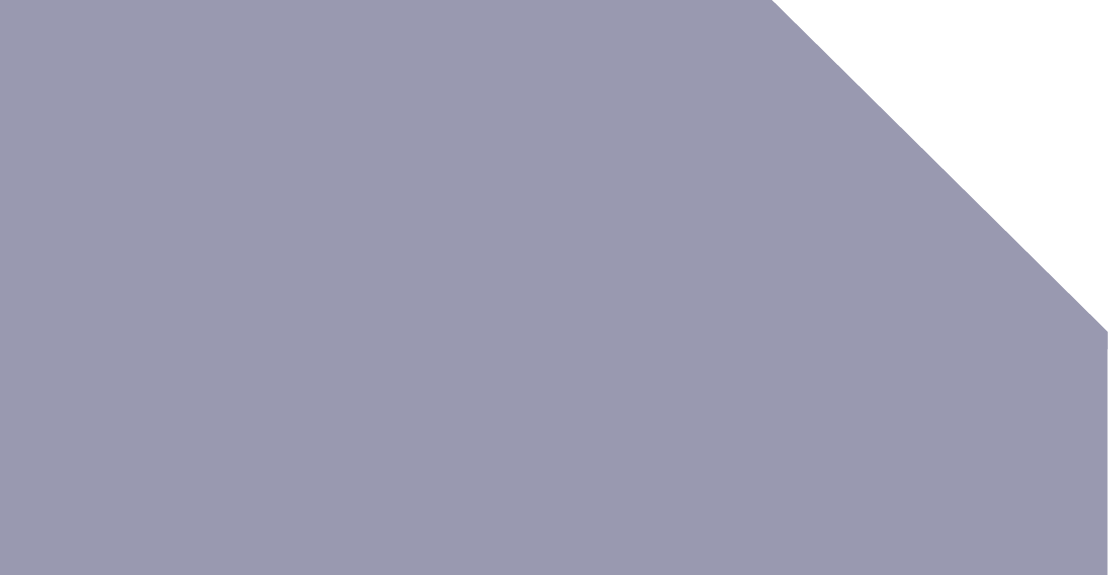
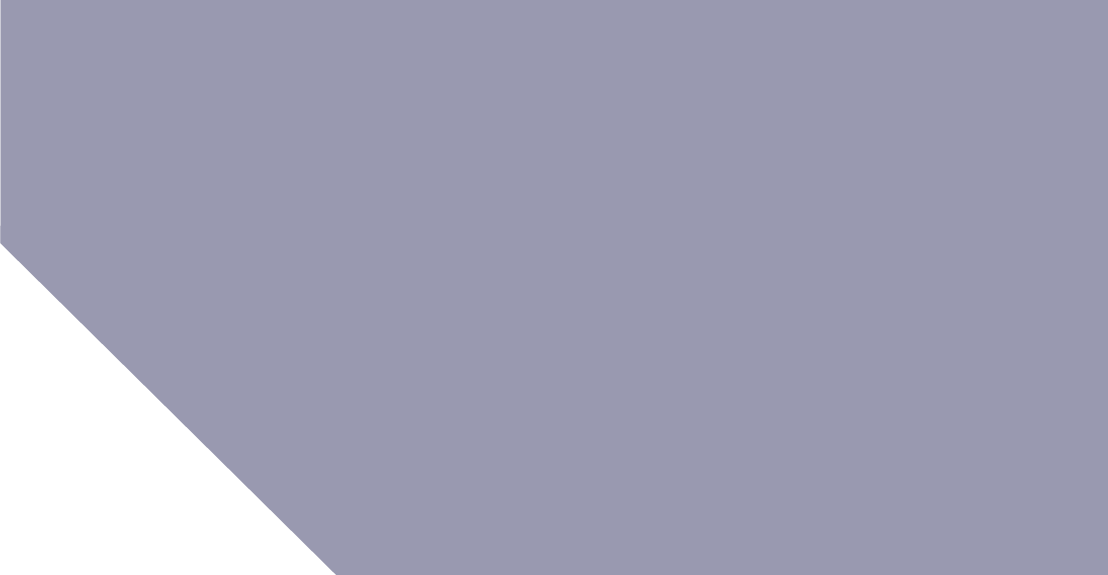
feature/sisk20/partnersTabAlmostDone

Changed region(s): [[0.7058, 0.0, 1.0, 0.5913], [0.0, 0.4139, 0.3069, 1.0]]

diff --git a/src/index.html b/src/index.html
@@ -113,6 +113,109 @@
 
 </section>
 
+<section id="partners" class="partners">
+  <div class="partners_container container">
+    <div class="row">
+      <div class="navy_bg col-12">
+      <p>
+        SKN Konsultingu IT zaufało już sześć organizacji i każda z nich planuje dalszą
+      </br>
+        współpracę z naszym kołem. Łącząc siły, tworzymy projekty wartościowe
+      </br>
+        zarówno dla studentów, jak i dla prestiżowych firm.
+      </br>
+      </br>
+        To dzięki Wam z każdym rokiem rośniemy.
+      </br>
+      </br>
+        Dziękujemy!
+      </p>
+      </div>
+    </div>
+  </div>
+  <div>
+    <div class="row d-flex justify-content-center">
+      <img class="img" src="assets/images/skn_partnerzy_dlonie_tlo1.png">
+    </div>
+  </div>
+  <div class="col-4">
+    <div class="row">
+      <div class="third">PARTNERZY</div>
+    </div>
+  </div>
+  <div class="white_bg d-flex justify-content-center">
+    <div class="row second">
+      <div class="col-2" rel="partner1">
+        <img src="assets/images/microsoft.png" width="200">
+      </div>
+      <div class="col-2" rel="partner2">
+        <img src="assets/images/PG.png" width="100" height="100">
+      </div>
+      <div class="col-2" rel="partner3">
+              <img src="assets/images/pwc.png" width="100" height="100">
+      </div>
+      <div class="col-2" rel="partner4">
+        <img src="assets/images/McKinsey.png" width="200" height="100">
+      </div>
+    <div class="col-4">
+      <div id="partner1">
+        <p>
+        "SKN Konsultingu IT zorganizowało dla Britnet
+        rekrtuację stażystów. W ramach współpracy Koło
+        przedstawiło kompleksowy plan a następnie
+        przeprowadziło akcję marketingową i
+        zaproponowało program oraz kryteria oceny
+        kandydatów. Całość została przeprowadzona szybko
+        i sprawnie. Dzięki pomocy i zaangażowaniu Koła w
+        cały proces rekrutacyjny udało nam się zatrudnić 3
+        stażystów, którzy pracują u nas do dzisiaj jako
+        analitycy i kierownicy    projektów."
+        </p>
+        </br>
+        <p>
+          Tomasz Kowalczyk
+        </br>
+        Dyrektor Project Management Office, Britnet
+        <p/>
+      </div>
+      <div id="partner2" style="display:none">
+        <p>
+        Lorem ipsum dolor sit amet, consectetur adipisicing elit, sed do eiusmod tempor incididunt ut labore et dolore magna aliqua. Ut enim ad minim veniam, quis nostrud exercitation ullamco laboris nisi ut aliquip ex ea commodo consequat. Duis aute irure dolor in reprehenderit in voluptate velit esse cillum dolore eu fugiat nulla pariatur. Excepteur sint occaecat cupidatat non proident, sunt in culpa qui officia deserunt mollit anim id est laborum.
+        </p>
+        </br>
+        <p>
+          Tomasz Kowalczyk
+        </br>
+        Dyrektor Project Management Office, Britnet
+        <p/>
+      </div>
+      <div id="partner3" style="display:none">
+        <p>
+        Lorem ipsum dolor sit amet, consectetur adipisicing elit, sed do eiusmod tempor incididunt ut labore et dolore magna aliqua. Ut enim ad minim veniam, quis nostrud exercitation ullamco laboris nisi ut aliquip ex ea commodo consequat. Duis aute irure dolor in reprehenderit in voluptate velit esse cillum dolore eu fugiat nulla pariatur. Excepteur sint occaecat cupidatat non proident, sunt in culpa qui officia deserunt mollit anim id est laborum.
+        </p>
+        </br>
+        <p>
+          Stefan Kowalski
+        </br>
+        Dyrektor Project Management Office, Britnet
+        <p/>
+      </div>
+      <div id="partner4" style="display:none">
+        <p>
+        Lorem ipsum dolor sit amet, consectetur adipisicing elit, sed do eiusmod tempor incididunt ut labore et dolore magna aliqua. Ut enim ad minim veniam, quis nostrud exercitation ullamco laboris nisi ut aliquip ex ea commodo consequat. Duis aute irure dolor in reprehenderit in
+        </p>
+        </br>
+        <p>
+          Tomasz Kowalczyk
+        </br>
+        Dyrektor Project Management Office, Britnet
+        <p/>
+      </div>
+    </div>
+  </div>
+</div>
+</section>
+
 
     <!-- CONTACT SECTION START -->
 

diff --git a/src/temp/css/style.css b/src/temp/css/style.css
@@ -701,3 +701,81 @@ table {
 .section__form .form__items-right .form-item input:focus {
   outline: none;
 }
+
+.partners {
+  font-family: "Roboto";
+  margin-bottom: 100px;
+  color: white;
+}
+
+.navy_bg {
+  border-left: 450px solid #000039;
+  border-top: 277px solid #000039;
+  border-right: 2100px solid transparent;
+  position: absolute;
+  left: 1px;
+  z-index: 1;
+}
+
+.navy_bg p {
+  left: -150px;
+  position: absolute;
+  top: -140px;
+  width: 600px;
+}
+
+.white_bg {
+  background-color: white;
+  height: 700px;
+}
+
+.second {
+  width: 80%;
+}
+
+.col-4 {
+  color: black;
+  top: 400px;
+}
+
+.col-2 {
+  color: black;
+  top: 470px;
+}
+
+.col-2:nth-of-type(1) {
+  left: 60px;
+}
+
+.col-2:nth-of-type(2) {
+  left: 80px;
+}
+
+.col-2:nth-of-type(3) {
+  left: 40px;
+}
+
+.col-2:nth-of-type(4) {
+  right: 20px;
+}
+
+.img {
+  opacity: 0.7;
+  position: absolute;
+  width: 60%;
+  z-index: 0;
+}
+
+.third {
+  color: grey;
+  font-size: 140px;
+  font-weight: bold;
+  left: 250px;
+  position: relative;
+  top: -50px;
+  opacity: 0.3;
+}
+
+#partner1, #partner2, #partner3, #partner4 {
+  text-align: justify;
+}

diff --git a/src/assets/scss/partials/_partners.scss b/src/assets/scss/partials/_partners.scss
@@ -1,0 +1,78 @@
+.partners {
+  font-family: "Roboto";
+  margin-bottom: 100px;
+  color: white;
+}
+
+.navy_bg {
+  border-left: 450px solid #000039;
+  border-top: 277px solid #000039;
+  border-right: 2100px solid transparent;
+  position: absolute;
+  left: 1px;
+  z-index: 1;
+
+  p {
+    left: -150px;
+    position: absolute;
+    top: -140px;
+    width: 600px;
+  }
+}
+
+.white_bg {
+  background-color: white;
+  height: 700px;
+}
+
+.second {
+  width: 80%;;
+}
+
+.col-4 {
+  color: black;
+  top: 400px;
+}
+
+.col-2 {
+  color: black;
+  top: 470px;
+
+  &:nth-of-type(1) {
+    left: 60px;
+  }
+
+  &:nth-of-type(2) {
+    left: 80px;
+  }
+
+  &:nth-of-type(3) {
+    left: 40px;
+  }
+
+  &:nth-of-type(4) {
+    right: 20px;
+  }
+}
+
+.img {
+  opacity: 0.7;
+  position: absolute;
+  width: 60%;
+  z-index: 0;
+}
+
+.third {
+  color: grey;
+  font-size: 140px;
+  font-weight:bold;
+  left: 250px;
+  position: relative;
+  top: -50px;
+  opacity: 0.3;
+
+}
+
+#partner1, #partner2, #partner3, #partner4 {
+    text-align: justify;
+}

diff --git a/src/assets/js/app.js b/src/assets/js/app.js
@@ -12,4 +12,9 @@ $(document).ready(function() {
     $("#myModal").on("shown.bs.modal", function() {
         $("#myInput").trigger("focus");
     });
+
+    $('div').on('click', function(){
+   var target = $(this).attr('rel');
+   $("#"+target).show().siblings("div").hide();
+   });
 });

diff --git a/src/temp/js/app.js b/src/temp/js/app.js
@@ -12,4 +12,9 @@ $(document).ready(function() {
     $("#myModal").on("shown.bs.modal", function() {
         $("#myInput").trigger("focus");
     });
+
+    $('div').on('click', function(){
+   var target = $(this).attr('rel');
+   $("#"+target).show().siblings("div").hide();
+   });
 });

diff --git a/src/assets/scss/style.scss b/src/assets/scss/style.scss
@@ -5,3 +5,4 @@
 @import "partials/_header";
 @import "partials/_projects";
 @import "partials/_contact";
+@import "partials/_partners"
